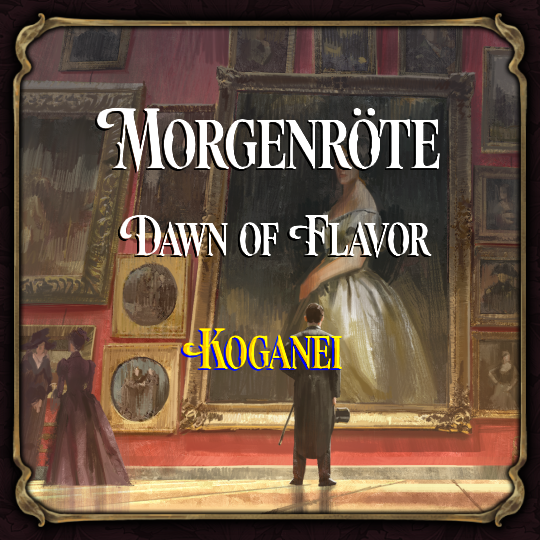
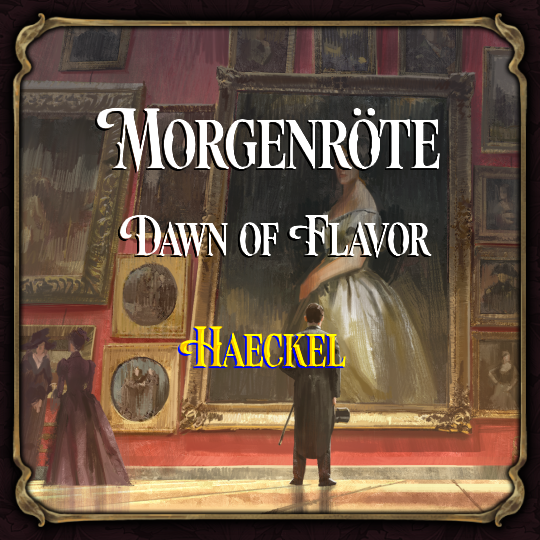
Haeckel 2.8.1

Changed region(s): [[0.3259, 0.5926, 0.6519, 0.7111]]

diff --git a/docs/0_Changelog.md b/docs/0_Changelog.md
@@ -1,4 +1,4 @@
-Changelog fot 2.8.0e "Koganei"
+Changelog fot 2.8.1 "Haeckel"
 
 Archaeology
 - Added 4 events for the Colombia Archaoelogical Region (Musica, Tairona, San Augustín, Zenú).